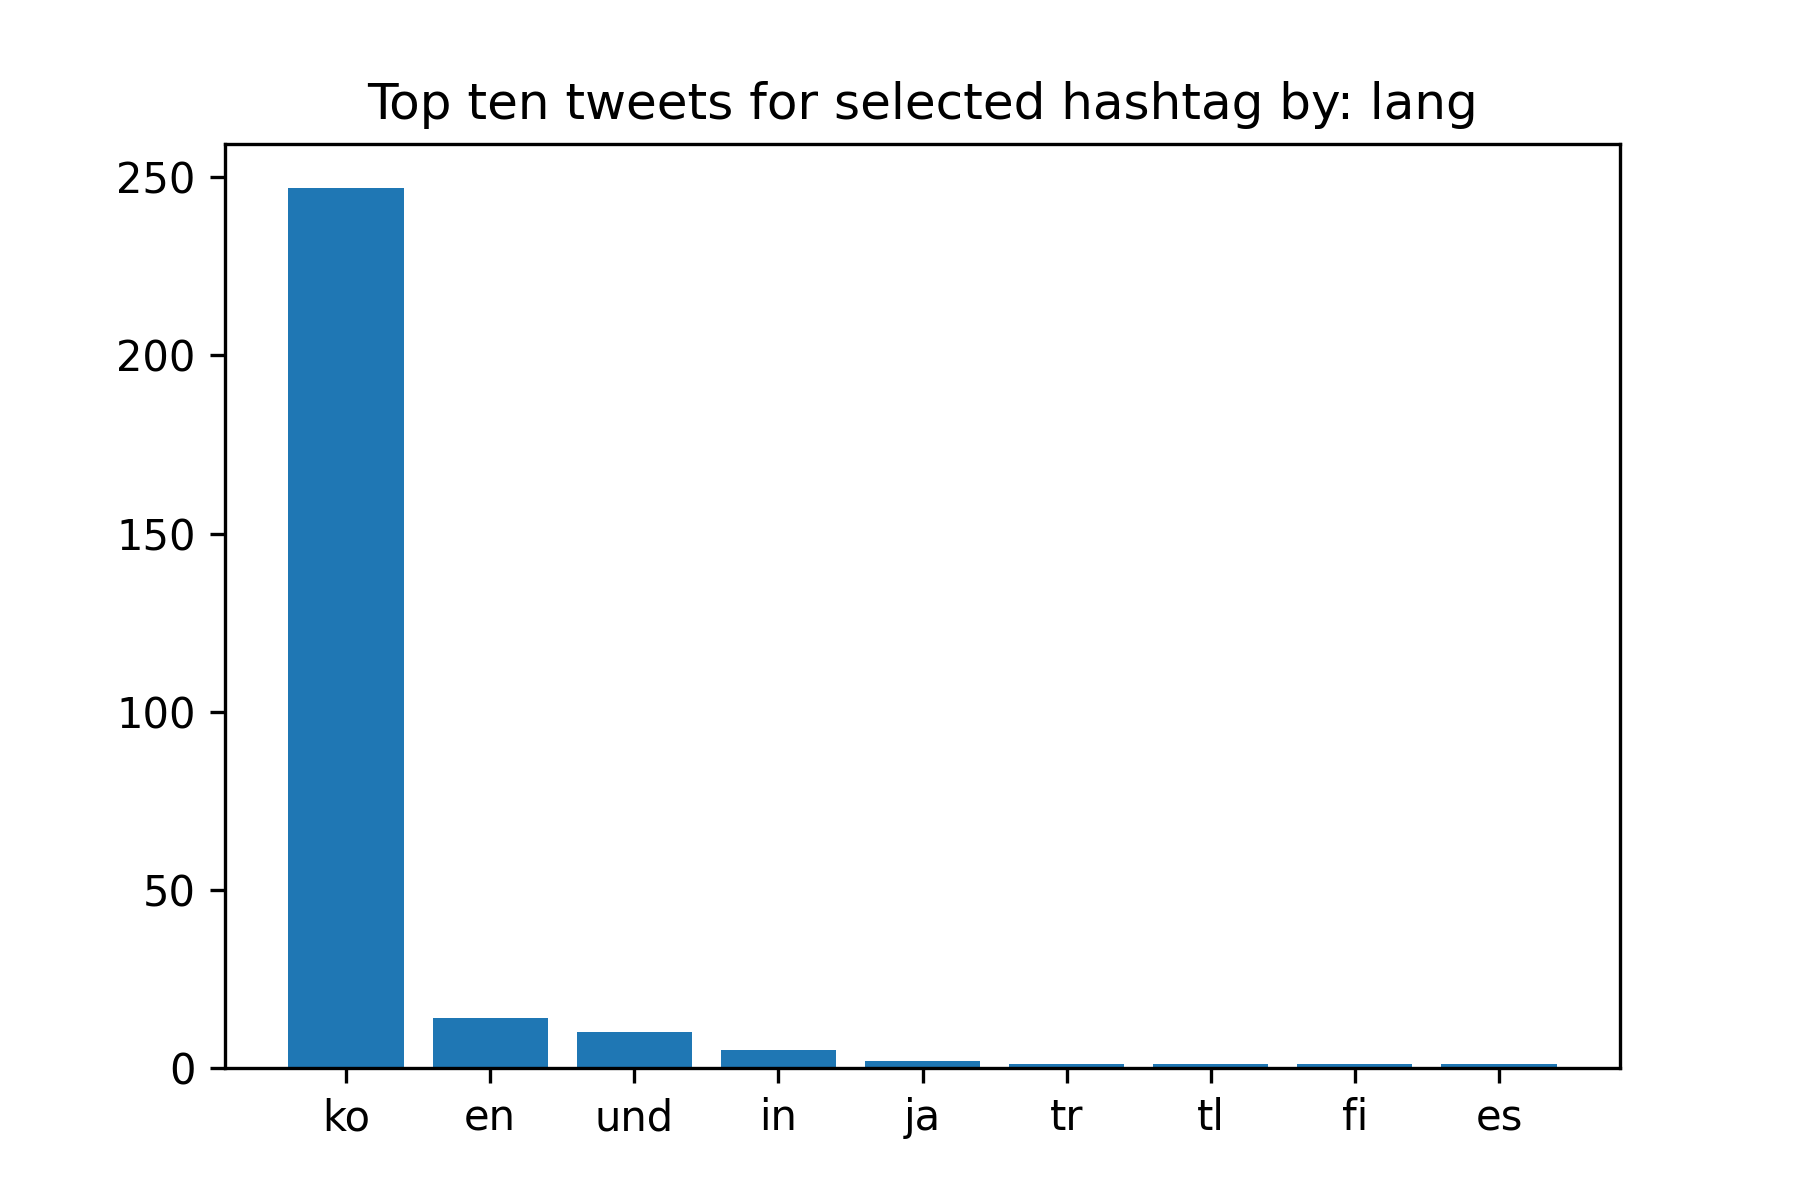
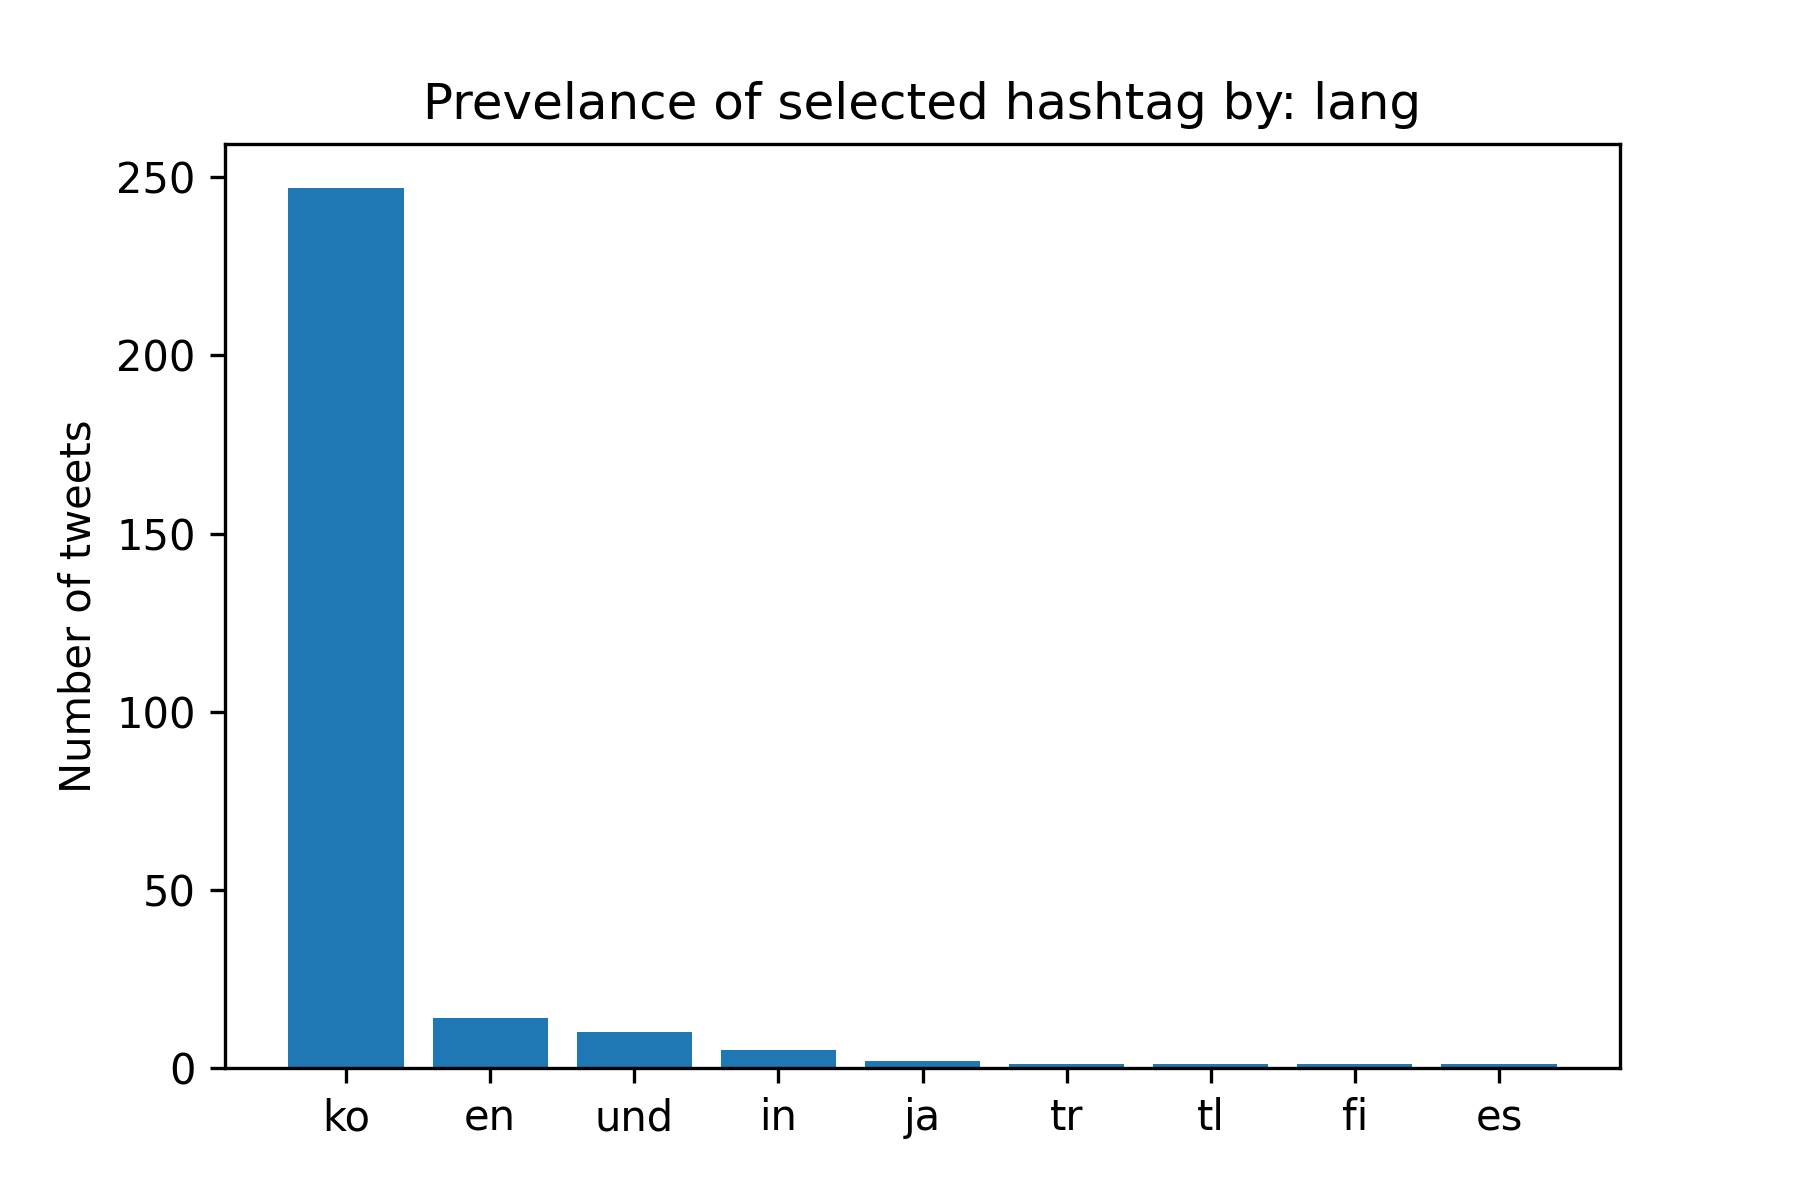
chart update v2

Changed region(s): [[0.1867, 0.0617, 0.8089, 0.1233], [0.0311, 0.3392, 0.0622, 0.6475]]

diff --git a/src/visualize.py b/src/visualize.py
@@ -45,7 +45,9 @@ plt.bar(categories, values)
 _, fileext = os.path.splitext(args.input_path)
 fileext = fileext[1:]
 
-plt.title("Top ten tweets for selected hashtag by: " + str(fileext))
+plt.title("Prevelance of selected hashtag by: " + str(fileext))
+
+plt.ylabel("Number of tweets")
 
 plt.savefig("plot"+str(fileext)+str(args.key), dpi = 300)
 
